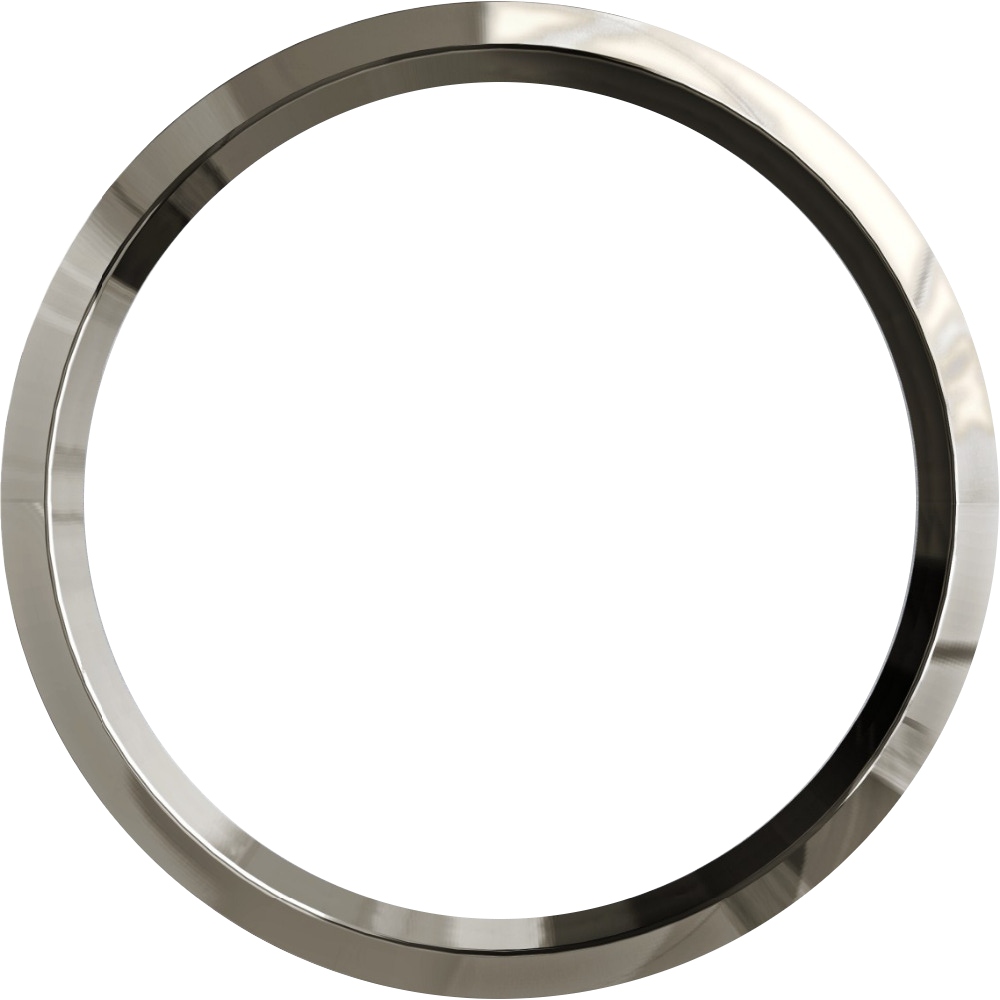
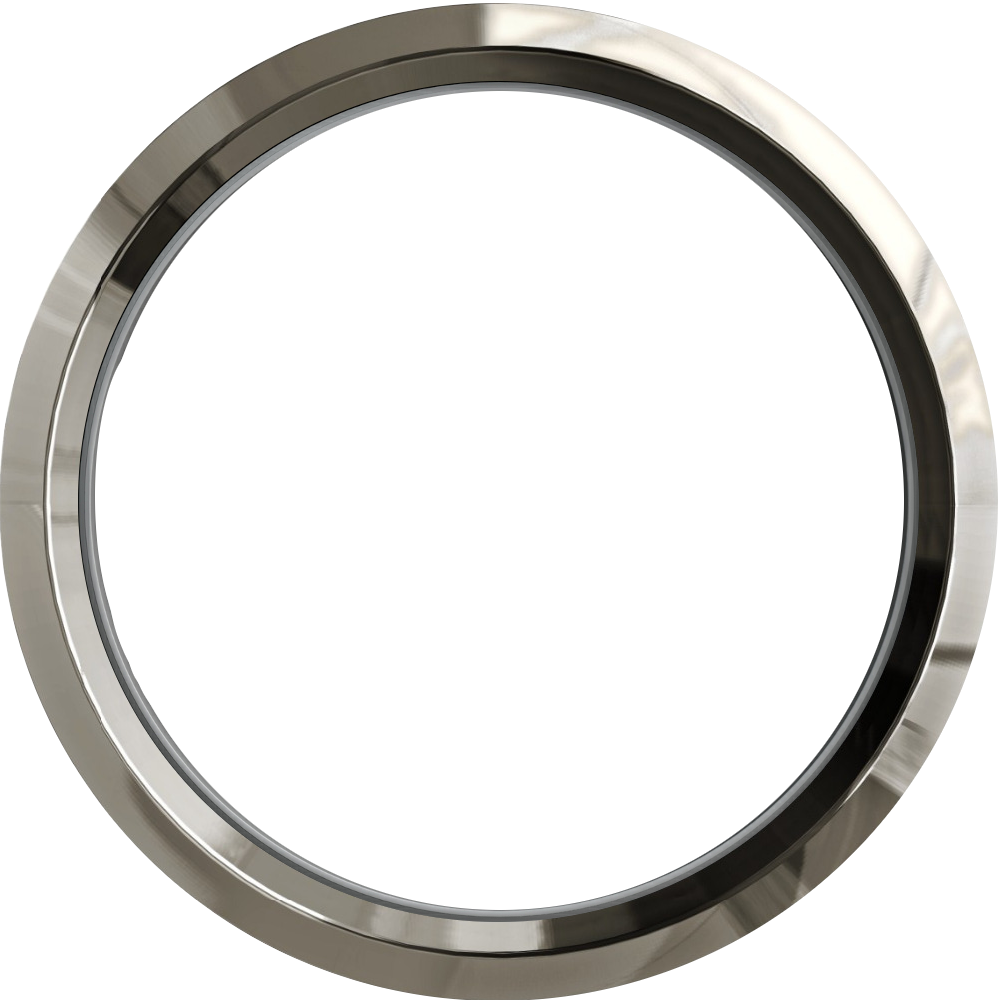
Minor changes

diff --git a/sdlSpeedometer.c b/sdlSpeedometer.c
@@ -1847,7 +1847,7 @@ static int doCompass(sdl2_app *sdlApp)
     SDL_Rect mutebarR       = {70,20,25,25};
     SDL_Rect textBoxR       = {470,70,290,42};
     SDL_Rect textField_rect = {0,0,0,0};
-    SDL_Rect outerRingR     = {19,18,440,440};
+    SDL_Rect outerRingR     = {17,18,442,442};
     SDL_Rect calbarR        = {20,60,25,25};
     SDL_Rect compassR       = {29,28,420,420};
     SDL_Rect clinoMeterR    = {159,164,160,160};
@@ -2062,7 +2062,6 @@ static int doCompass(sdl2_app *sdlApp)
 
         if (sdlApp->conf->style == 0) {
             SDL_RenderCopy(sdlApp->renderer, Background_Tx, NULL, NULL);
-            SDL_RenderCopyEx(sdlApp->renderer, outerRing, NULL, &outerRingR, 0, NULL, SDL_FLIP_NONE);
         }
 
         SDL_RenderCopyEx(sdlApp->renderer, compassRose, NULL, &compassR, 360-t_angle, NULL, SDL_FLIP_NONE);
@@ -2074,6 +2073,10 @@ static int doCompass(sdl2_app *sdlApp)
 
         if (!(ct - cnmea.vwr_ts > S_TIMEOUT || cnmea.vwra == 0))
             SDL_RenderCopyEx(sdlApp->renderer, windDir, NULL, &windDirR, t_angle_a, NULL, SDL_FLIP_NONE);
+
+        if (sdlApp->conf->style == 0) {
+            SDL_RenderCopyEx(sdlApp->renderer, outerRing, NULL, &outerRingR, 0, NULL, SDL_FLIP_NONE);
+        }
 
         get_text_and_rect(sdlApp->renderer, 225, 180, 0, msg_src, fontSrc, &sdlApp->textFieldArr[sdlApp->textFieldArrIndx], &textField_rect, BLACK);
         SDL_RenderCopy(sdlApp->renderer, sdlApp->textFieldArr[sdlApp->textFieldArrIndx++], NULL, &textField_rect);
